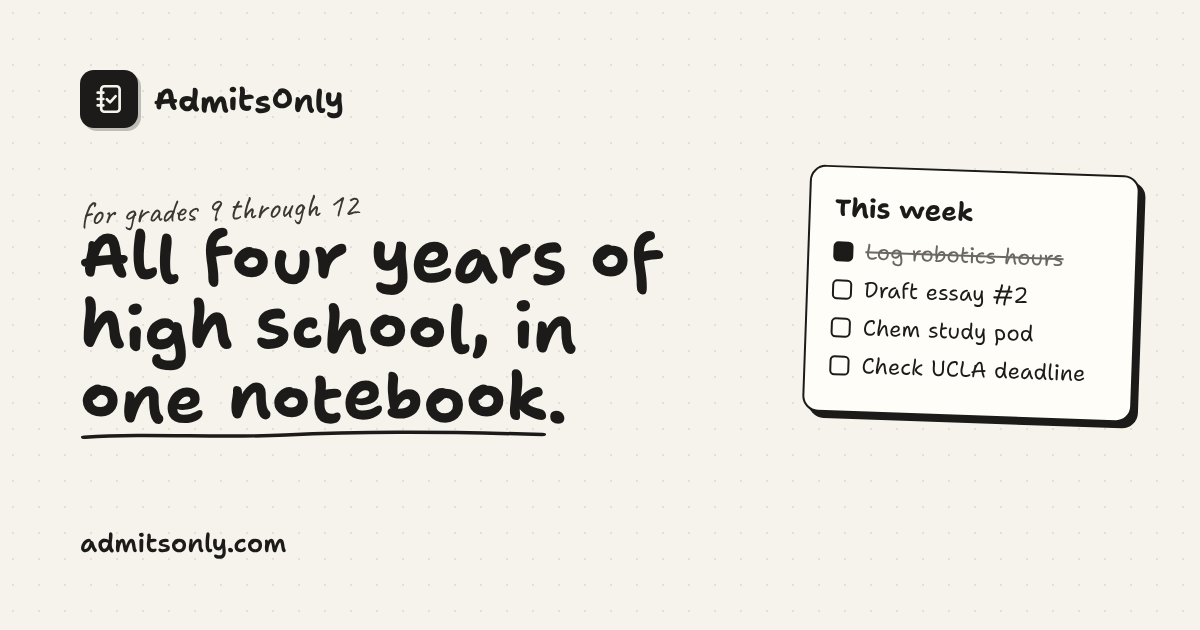
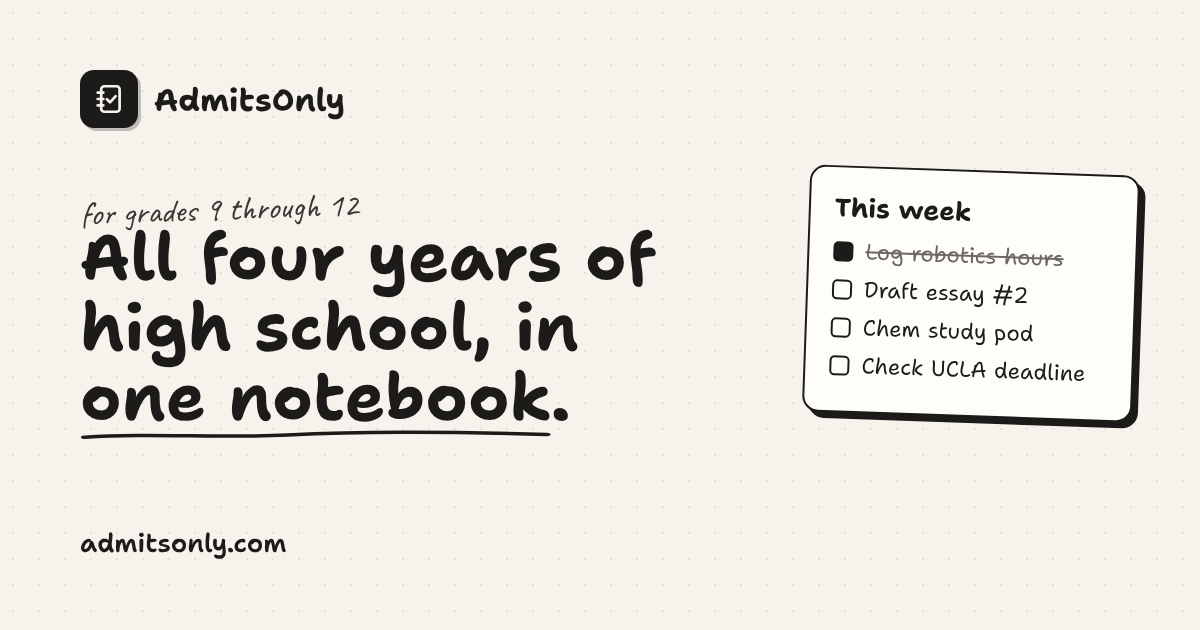
Level the handwritten headings, and stop college names breaking mid-word
Headings used Shantell Sans at full informality with bounce 45. Bounce
moves letters up and down on purpose; measured on real words at 80px,
each letter's baseline varied by 10px (x-height by 13px), which read as
uneven rather than hand-lettered. Measured alternatives: informality 100
without bounce 7px, informality 50 without bounce 4px, body text 0px.
Headings now use informality 50 and no bounce, which keeps the
handwritten character while sitting level. Same change on the newsletter
page and the preview image.

The wider font exposed two layout problems on the application board:
- The application-type chip shared the name row and left ~93px, so
  "Massachusetts" broke as "Massachuset / ts". The chip now sits on the
  deadline row and the name gets the full card width.
- From 1024px up, the six board columns had no minimum width; at 1024px
  each card had ~70px and every college name broke mid-word. This
  predates the font change (the old font did not fit "University" either)
  but the wider type made it worse. Columns now have a 168px floor and
  the board scrolls within its own frame.

Verified: no board title breaks mid-word at 1920, 1440, 1280, 1024, 768
or 390px, no page overflow, and the full contrast/overflow sweep across
all roles is unchanged.

Claude-Session: https://claude.ai/code/session_01JZkoX9genCSf7eUJgcBjxN

diff --git a/pages/dashboard/progress.tsx b/pages/dashboard/progress.tsx
@@ -701,7 +701,10 @@ export default function Applications() {
           </div>
         )}
 
-        {/* ═══ Board View ═══ */}
+        {/* ═══ Board View ═══
+            Columns never shrink below 168px: with no floor, six columns beside
+            the sidebar at 1024px left ~70px per card and every college name
+            broke mid-word. The board scrolls inside its own frame instead. */}
         {view === 'board' && apps.length > 0 && (
           <div className="flex gap-4 overflow-x-auto pb-4 -mx-2 px-2 snap-x snap-mandatory lg:snap-none">
             {BOARD_COLUMNS.map(col => {
@@ -710,7 +713,7 @@ export default function Applications() {
               // Empty columns swipe-order last on mobile so the first thing a
               // phone user sees is real content, not an empty tray.
               return (
-                <div key={col.status} className={`min-w-[280px] w-[280px] lg:min-w-0 lg:w-auto lg:flex-1 flex-shrink-0 snap-start ${colApps.length === 0 ? 'order-last lg:order-none' : ''}`}>
+                <div key={col.status} className={`min-w-[280px] w-[280px] lg:min-w-[168px] lg:w-auto lg:flex-1 flex-shrink-0 snap-start ${colApps.length === 0 ? 'order-last lg:order-none' : ''}`}>
                   <div className="flex items-center gap-2 mb-3">
                     <span className={`w-2.5 h-2.5 rounded-full ${statusInfo.color.split(' ')[0]}`} />
                     <h3 className="text-xs font-bold text-slate-500 uppercase tracking-wider">{col.label}</h3>
@@ -907,26 +910,26 @@ function BoardCard({ app, onClick }: { app: CollegeApp; onClick: () => void }) {
       onClick={onClick}
       className="w-full text-left bg-white rounded-2xl border border-slate-100 surface surface-interactive p-4 group"
     >
-      {/* Name + Type */}
-      <div className="flex items-start justify-between gap-2">
-        <h4 className="min-w-0 text-sm font-bold text-primary group-hover:text-indigo-600 transition-colors leading-snug break-words">{app.name}</h4>
-        <span className={`px-2 py-0.5 rounded-md text-[10px] font-bold border flex-shrink-0 ${typeColors[app.type]}`}>{app.type}</span>
-      </div>
+      {/* The name gets the card's full width. The application-type chip used to
+          share this row and left ~93px, so "Massachusetts" broke mid-word as
+          "Massachuset / ts" once the wider handwritten font arrived. */}
+      <h4 className="text-sm font-bold text-primary group-hover:text-indigo-600 transition-colors leading-snug break-words [hyphens:auto]">{app.name}</h4>
 
-      {/* Deadline */}
-      {app.deadline && (
-        <p className="text-xs text-slate-400 mt-1.5">
-          {new Date(app.deadline).toLocaleDateString('en-US', { month: 'short', day: 'numeric' })}
-          {days !== null && days >= 0 && (
+      {/* Deadline + type */}
+      <div className="mt-1.5 flex items-center justify-between gap-2">
+        <p className="min-w-0 text-xs text-slate-400">
+          {app.deadline && new Date(app.deadline).toLocaleDateString('en-US', { month: 'short', day: 'numeric' })}
+          {app.deadline && days !== null && days >= 0 && (
             <span className={`ml-1.5 font-semibold ${days <= 7 ? 'text-red-500' : days <= 30 ? 'text-amber-500' : 'text-slate-400'}`}>
               &middot; {days === 0 ? 'Today' : days === 1 ? '1 day left' : `${days}d left`}
             </span>
           )}
-          {days !== null && days < 0 && (
+          {app.deadline && days !== null && days < 0 && (
             <span className="ml-1.5 font-semibold text-slate-300">&middot; Past due</span>
           )}
         </p>
-      )}
+        <span className={`px-2 py-0.5 rounded-md text-[10px] font-bold border flex-shrink-0 ${typeColors[app.type]}`}>{app.type}</span>
+      </div>
 
       {/* The school's own rounds, so a student can see at a glance whether the
           date they set matches the round they meant to apply in. */}

diff --git a/styles/notebook.css b/styles/notebook.css
@@ -57,12 +57,20 @@ body {
 }
 html.dark body { background-image: radial-gradient(rgb(var(--dot) / 0.06) 1px, transparent 1.2px); }
 
-/* Headings are lettered by hand: the same family at full informality with a
-   little bounce. Body text stays tidy so numbers and deadlines are crisp. */
+/* Headings are lettered by hand, but sit level. Measured on real words at
+   80px, each letter's baseline varied by:
+     informality 100 + bounce 45 (first version) .. 10px — read as uneven
+     informality 100, no bounce ..................  7px
+     informality 50,  no bounce ..................  4px  ← here
+     informality 0 (body text) ...................  0px
+   Bounce is off entirely: it moves letters up and down on purpose, which is
+   charming once on a poster and tiring on a page used every day. Half
+   informality keeps the hand-lettered character. Body text stays at zero so
+   numbers and deadlines are crisp. */
 h1, h2, h3, .font-display {
   letter-spacing: 0;
   font-feature-settings: normal;
-  font-variation-settings: 'INFM' 100, 'BNCE' 45;
+  font-variation-settings: 'INFM' 50, 'BNCE' 0;
 }
 h4, h5, h6 { letter-spacing: 0; font-feature-settings: normal; }
 

diff --git a/app/newsletter/newsletter.module.css b/app/newsletter/newsletter.module.css
@@ -67,7 +67,7 @@
 
 .leftTitle {
   font-family: 'Shantell Sans Variable', ui-rounded, system-ui, sans-serif;
-  font-variation-settings: 'INFM' 100, 'BNCE' 45;
+  font-variation-settings: 'INFM' 50, 'BNCE' 0;
   font-size: 36px;
   font-weight: 800;
   color: #ffffff;
@@ -190,7 +190,7 @@
 
 .formTitle {
   font-family: 'Shantell Sans Variable', ui-rounded, system-ui, sans-serif;
-  font-variation-settings: 'INFM' 100, 'BNCE' 45;
+  font-variation-settings: 'INFM' 50, 'BNCE' 0;
   font-size: 24px;
   font-weight: 700;
   color: #1d1c18;
@@ -448,7 +448,7 @@
 
 .successTitle {
   font-family: 'Shantell Sans Variable', ui-rounded, system-ui, sans-serif;
-  font-variation-settings: 'INFM' 100, 'BNCE' 45;
+  font-variation-settings: 'INFM' 50, 'BNCE' 0;
   font-size: 22px;
   font-weight: 700;
   color: #1d1c18;
